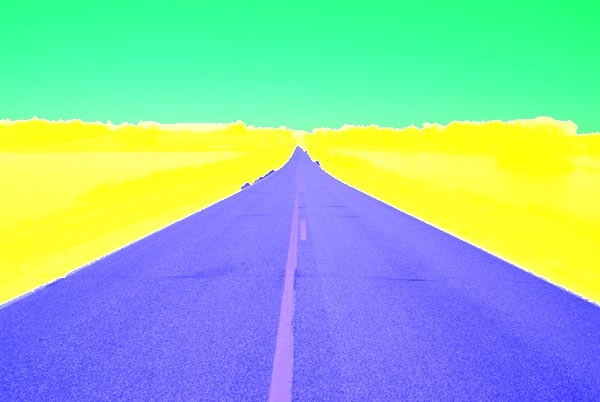
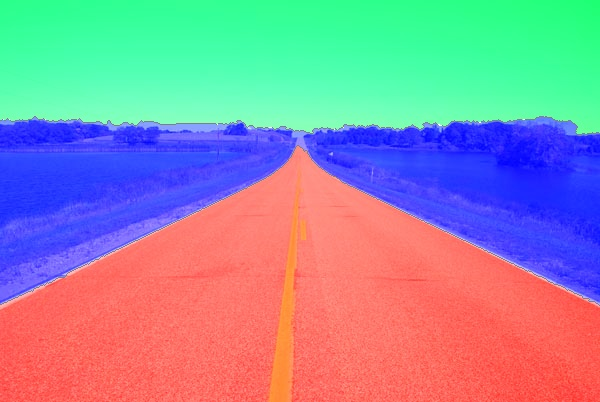
Upload instruction & Report Templete

diff --git a/hw3/hw3.py b/hw3/hw3.py
@@ -16,8 +16,8 @@ default_colors = [  # Colors for image labeling
     (128, 0, 128)  # 9: Violet / Dark Magenta
 ]
 label_colors = {i: default_colors[i] for i in range(10)}
-label_colors[-1] = (255, 255, 255)
-label_colors[-2] = (128, 128, 128)
+label_colors[-1] = (128, 128, 128)
+label_colors[-2] = (255, 255, 255)
 
 '''
 Template for Machine Vision class.
@@ -159,6 +159,11 @@ def watershedtoimg(label_img, ori_img):
 
     for i in range(h):
         for j in range(w):
+
+            if(label_img[i][j] == -1 or label_img[i][j] == -2):
+                ans[i, j] = label_colors[label_img[i, j]]
+                continue
+
             pixel = ori_img[i, j].astype(np.int32)
             label_val = list(label_colors[label_img[i, j]])
             pixel += label_val

diff --git a/hw3/report.md b/hw3/report.md
@@ -1,0 +1,64 @@
+# 111590004 張意昌 MV_HW3
+
+## Approach
+
+> [!NOTE]  
+> In this homework, our goal is using watershed algorithm to segment image.    
+> There are two problems to solve in this homework.  
+> In this report. I will answer each question and put original images and result for each question.  
+> At the end of report. I will discuss some issue which I found in this homework.
+
+## Original Image
+
+> [!TIP]  
+> Here is our original pictures.  
+> ![Img 1](./test_img/img1.png)  
+> ![Img 2](./test_img/img2.png)
+> ![Img 3](./test_img/img3.png)
+
+## Problem 1 Mark the area you want to segment
+
+> [!IMPORTANT]  
+> In this problem, we need to use mouse to making mask.  
+> The method is using mouse left click to make mask and number key to change the label colors.  
+> After that, press Q or using right-top bottom to make mask for next picture.  
+> For final processing in this problem,it will make two images here.  
+> One is marked image and the other is mask image.  
+
+### Marked Image
+
+> [!TIP]  
+> ![Marked_1](./result_img/img1_marked.jpg)
+> ![Marked_2](./result_img/img2_marked.jpg)
+> ![Marked_3](./result_img/img3_marked.jpg)
+
+### Mask Image
+
+> [!TIP]  
+> ![Marked_1](./result_img/img1_mask.jpg)
+> ![Marked_2](./result_img/img2_mask.jpg)
+> ![Marked_3](./result_img/img3_mask.jpg)
+
+
+## Problem 2 Watershed Segmentation Region growing
+
+> [!IMPORTANT]  
+> In this problem, we need to use watershed algorithm to segment object.  
+> Most important thing is to choose our priority.  
+### Segment Image
+
+![Seg1](./result_img/img1_seg.jpg)  
+![Seg2](./result_img/img2_seg.jpg)  
+![Seg3](./result_img/img3_seg.jpg)
+
+## My thought in hw3
+
+> [!TIP]  
+> In this section, I will discuss some interest things I found in hw3.  
+
+# Report link
+
+[HW2](https://github.com/kesshoban3310/NTUT_Machine_Vision/tree/main/hw3)
+
+> [!NOTE]  
+> You can see origin link for this solution.  

diff --git a/hw3/README.md b/hw3/README.md
@@ -1,0 +1,23 @@
+# How to use.
+ 
+> [!TIP]  
+> Delete `result_img` folder if you want. (optional)  
+> Just execute `111590004_hw3.py`.  
+> Press left mouse key and draw picture.  
+> Using number 1~9 to switch different color.  
+> Press Q or Press right-top x to destroy windows.  
+> You could see result in `result_img` folder.  
+> And grayscale image would store in `report_img` folder.  
+> The report file is `report.md`.  
+
+> [!NOTE]  
+> This is the table for number key with color value.  
+> Number 1: Red  
+> Number 2: Green  
+> Number 3: Blue  
+> Number 4: Cyan / Light Blue  
+> Number 5: Magenta / Purple  
+> Number 6: Yellow  
+> Number 7: Olive  
+> Number 8: Teal  
+> Number 9: Violet / Dark Magenta  
